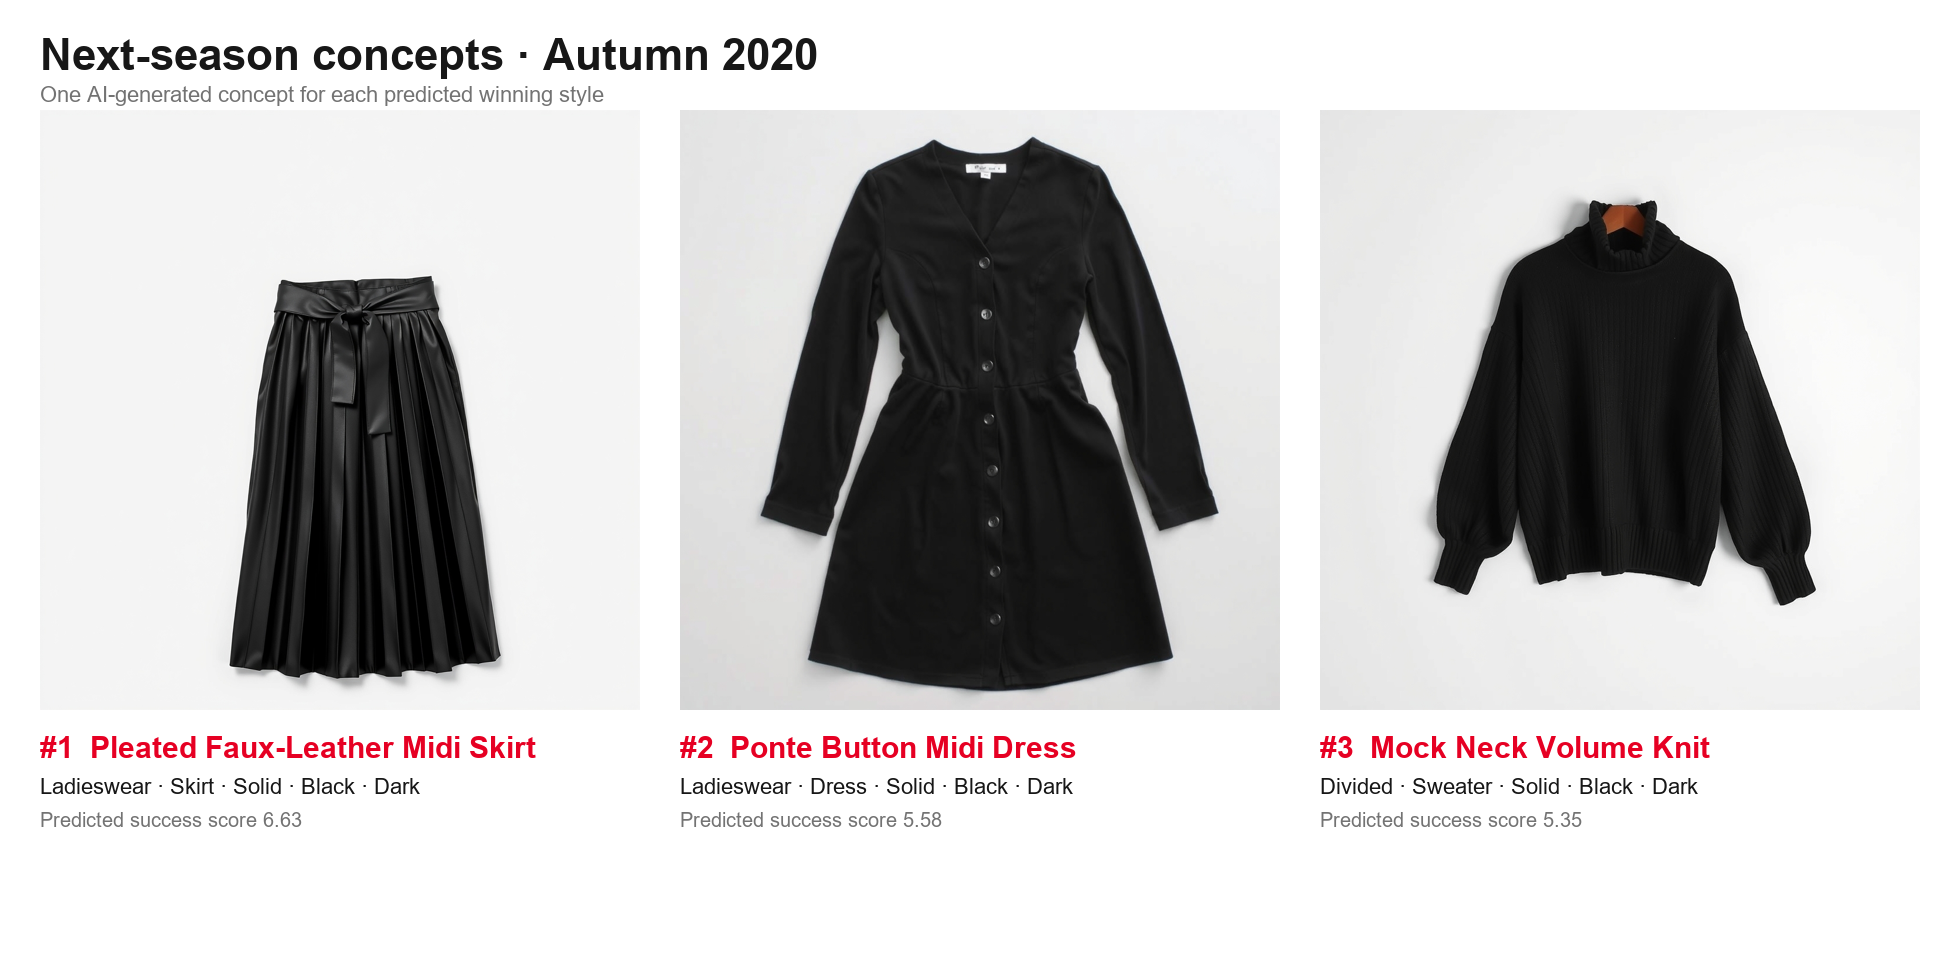
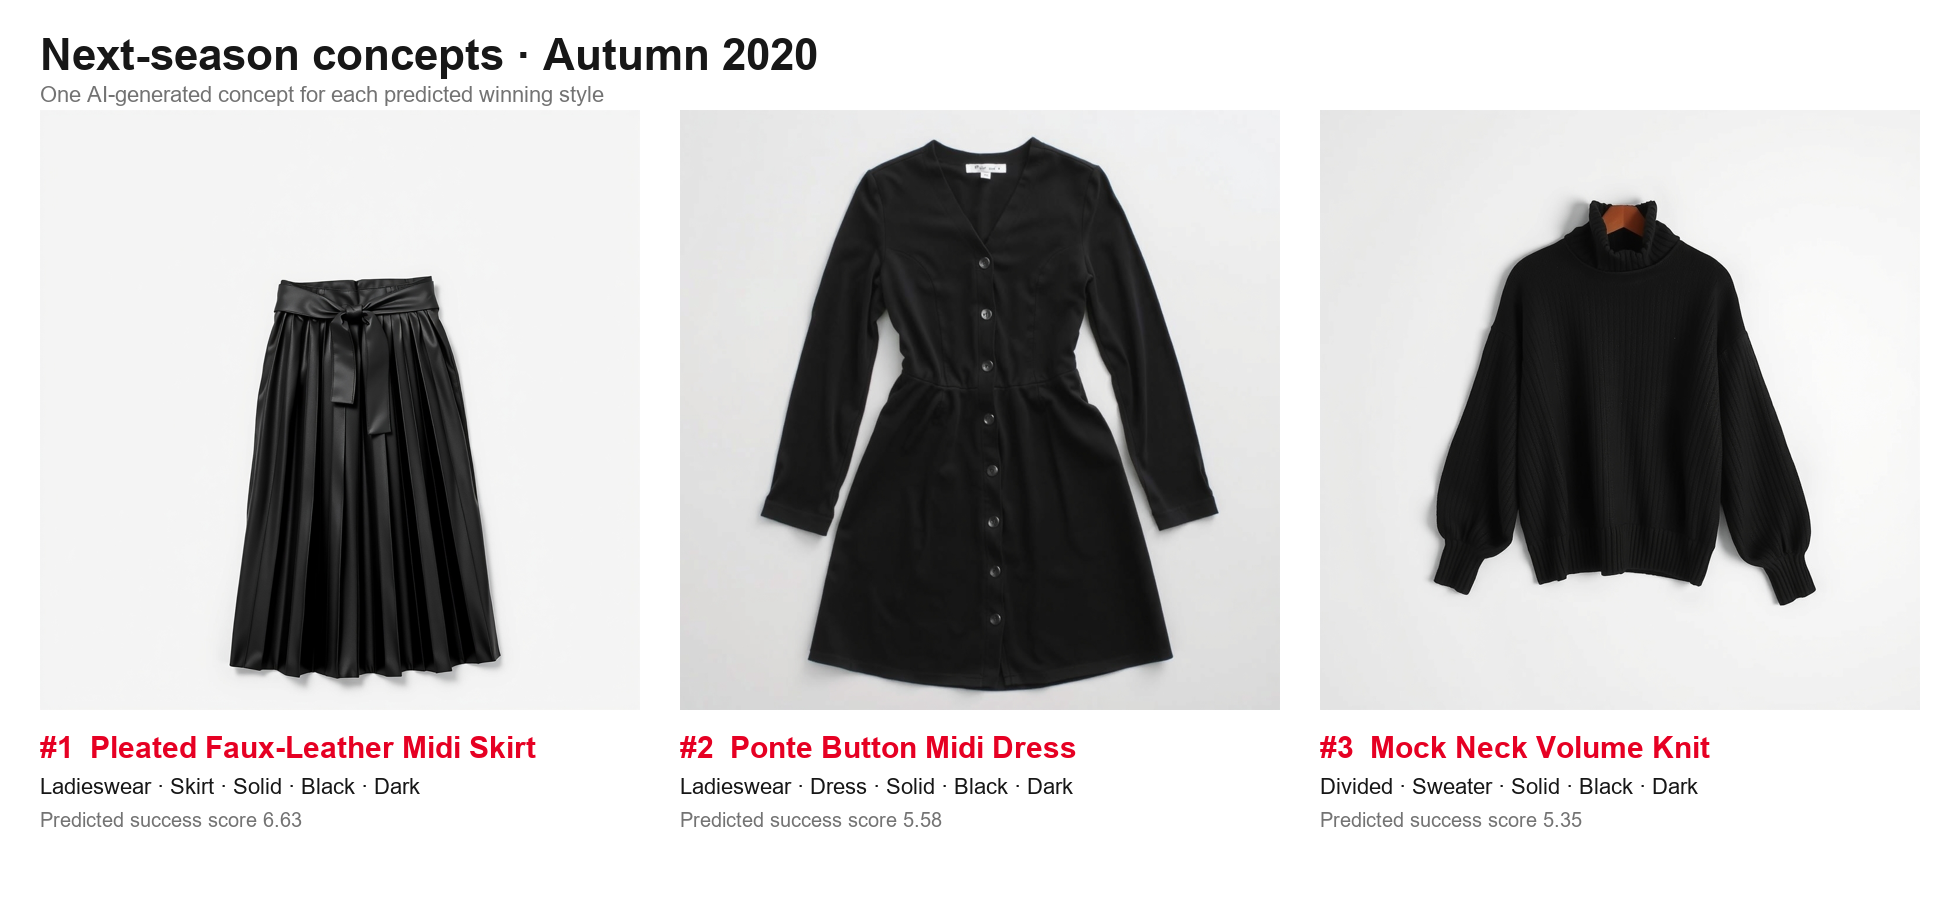
better readme with images

diff --git a/data_science/generate_concepts.py b/data_science/generate_concepts.py
@@ -216,7 +216,7 @@ def _wrap(draw, text: str, font, width: int) -> list[str]:
 
 def compose(styles: list[dict], designs: dict, path: Path) -> None:
     """The three concepts side by side, each with its concept name, predicted style and score."""
-    panel_w, img_h, pad, caption_h, title_h = 600, 600, 40, 230, 110
+    panel_w, img_h, pad, caption_h, title_h = 600, 600, 40, 150, 110
     canvas = Image.new("RGB", (pad + len(styles) * (panel_w + pad), title_h + img_h + caption_h + pad), "white")
     draw = ImageDraw.Draw(canvas)
     draw.text((pad, 30), f"Next-season concepts · {styles[0]['season']}", fill="#171717", font=_font(44, bold=True))

diff --git a/README.md b/README.md
@@ -415,6 +415,12 @@ npm run dev            # http://localhost:5173 (expects the API on http://localh
 - **Detail view** (Details button): the style's images, attributes, the prediction for the next quarter (score, rank,
   percentile, summary), the reasoning (feature contributions) and its historical performance per quarter.
 
+| Past season: actual winners, hover explains the score | Style detail: prediction, reasons, history |
+|---|---|
+| ![Score explanation](docs/screenshots/app_score_tooltip.png) | ![Style detail](docs/screenshots/app_style_detail.png) |
+| **Predicted season: the three concepts in one image** | **AI assistant: answers from the data, shows the tools used** |
+| ![Concepts](docs/screenshots/app_concepts.png) | ![Assistant](docs/screenshots/app_assistant.png) |
+
 | File | Role |
 |---|---|
 | `src/api.ts` | typed API client |
